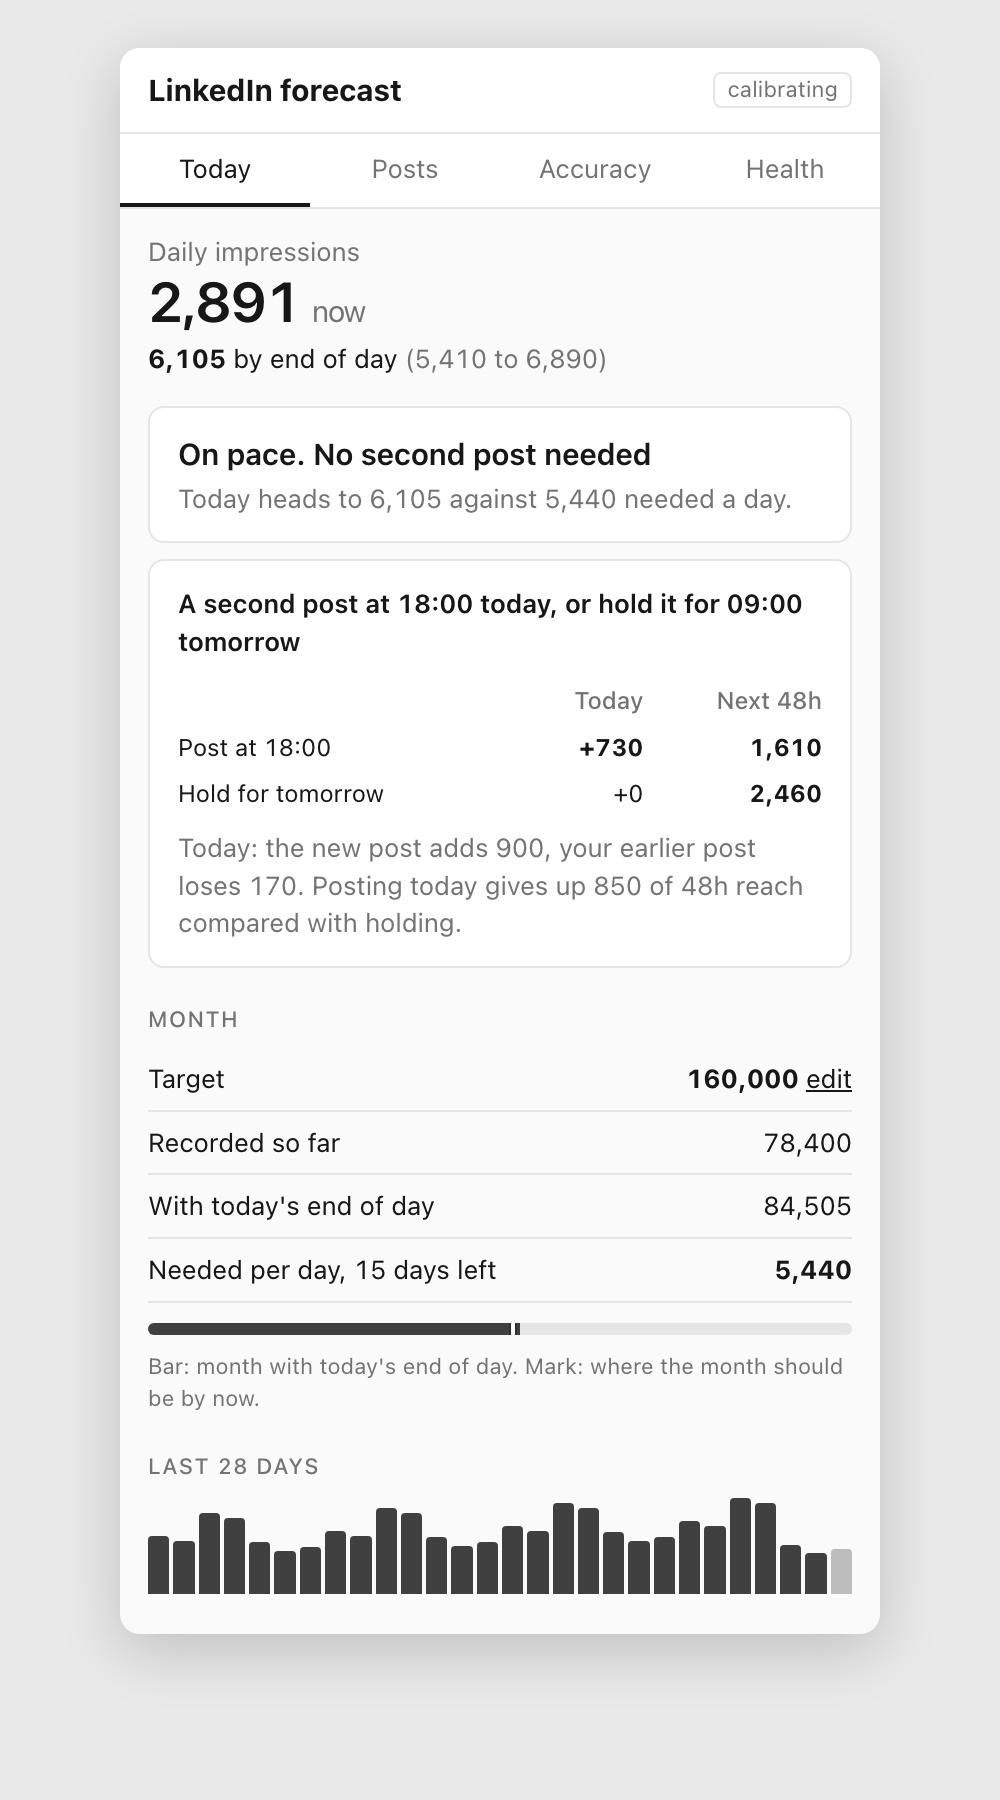
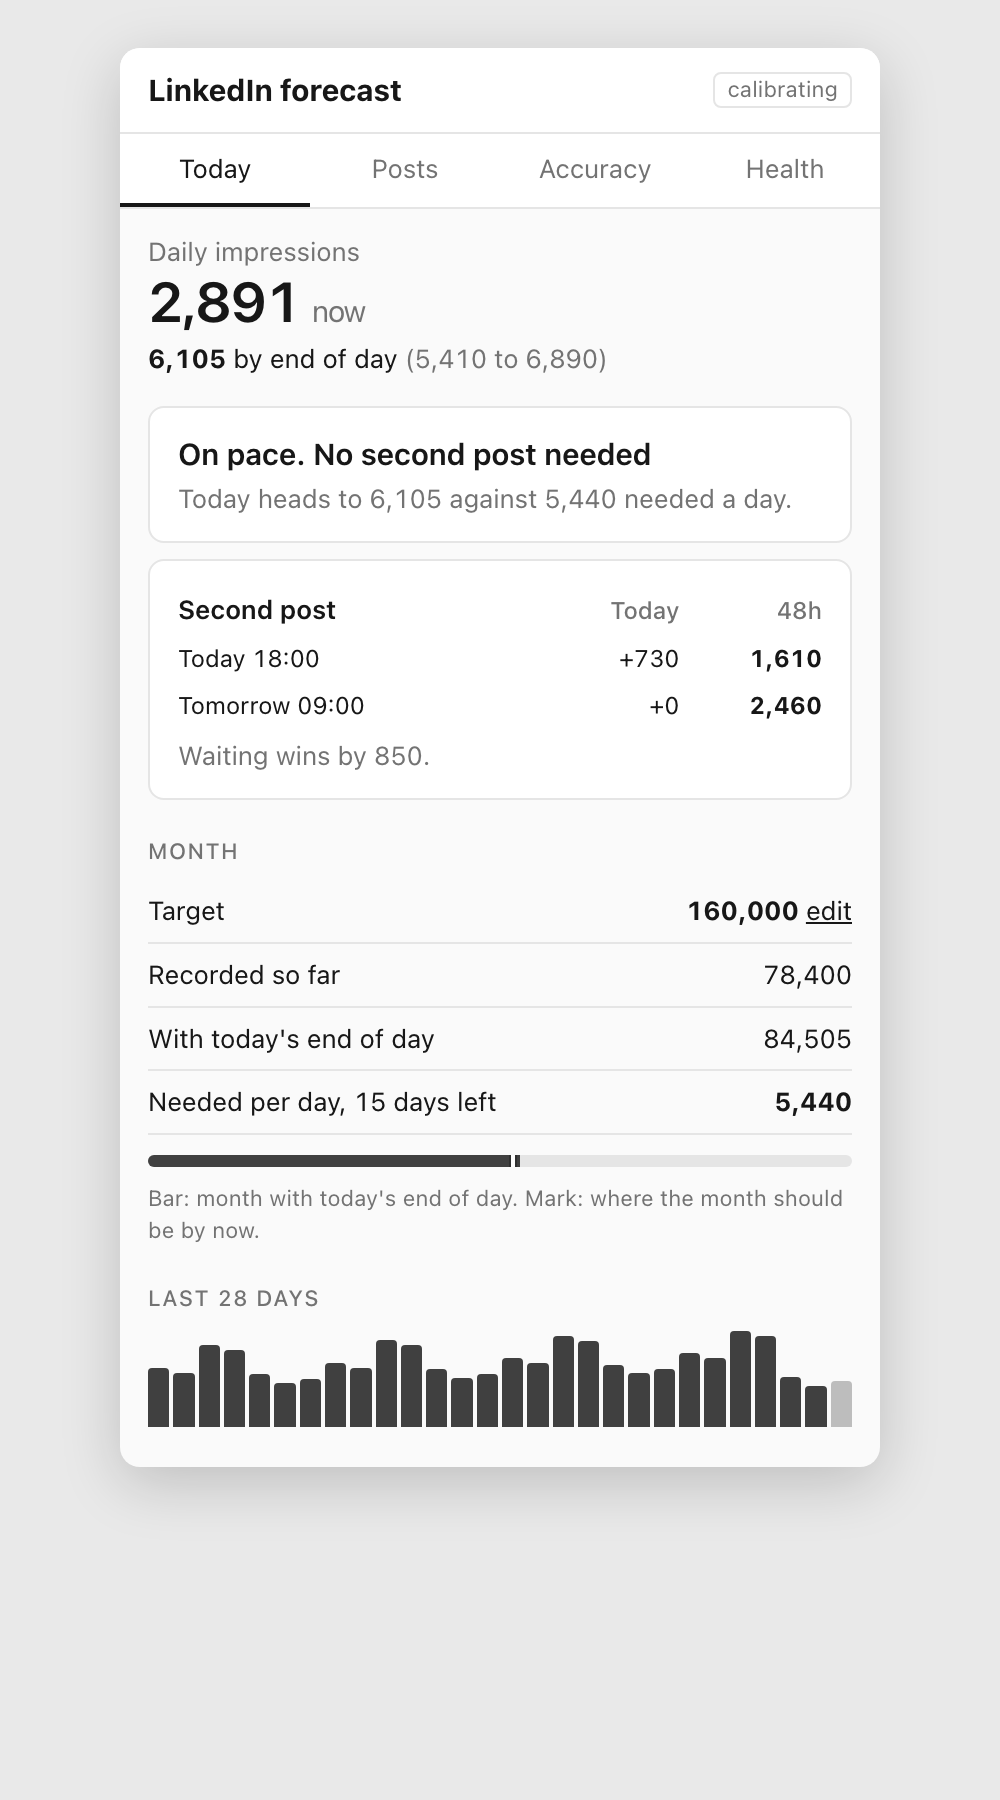
Second-post card: table plus one line

Changed region(s): [[0.124, 0.3111, 0.899, 0.9333], [0.62, 0.6533, 0.651, 0.6844], [0.527, 0.6533, 0.558, 0.6844]]

diff --git a/src/ui/popup/main.tsx b/src/ui/popup/main.tsx
@@ -83,21 +83,15 @@ function Today({ s, reload }: { s: State; reload: () => void }) {
       </div>
 
       {g.scenario && (
-        <div class="decision" title="Assumes one post in hand, a typical post for this account, and that it would be tomorrow's only post if held.">
-          <div class="decision-head" style="font-size:13px">{g.scenario.second ? 'A second post' : 'A post'} at {g.scenario.slotLocal} today, or hold it for {g.scenario.tomorrowLocal} tomorrow</div>
+        <div class="decision" title={`${g.scenario.second ? `New post adds ${fmt(g.scenario.addToday)} today, earlier post loses ${fmt(g.scenario.lossToday)}. ` : ''}Assumes a typical post, and that a held post is tomorrow's only post.`}>
           <table class="scn">
-            <thead><tr><th></th><th class="n">Today</th><th class="n">Next 48h</th></tr></thead>
+            <thead><tr><th>{g.scenario.second ? 'Second post' : 'Next post'}</th><th class="n">Today</th><th class="n">48h</th></tr></thead>
             <tbody>
-              <tr><td>Post at {g.scenario.slotLocal}</td><td class="n"><b>+{fmt(g.scenario.netToday)}</b></td><td class="n"><b>{fmt(g.scenario.reach48Today)}</b></td></tr>
-              <tr><td>Hold for tomorrow</td><td class="n">+0</td><td class="n"><b>{fmt(g.scenario.reach48Tomorrow)}</b></td></tr>
+              <tr><td>Today {g.scenario.slotLocal}</td><td class="n">+{fmt(g.scenario.netToday)}</td><td class="n"><b>{fmt(g.scenario.reach48Today)}</b></td></tr>
+              <tr><td>Tomorrow {g.scenario.tomorrowLocal}</td><td class="n">+0</td><td class="n"><b>{fmt(g.scenario.reach48Tomorrow)}</b></td></tr>
             </tbody>
           </table>
-          <div class="dim" style="margin-top:6px">
-            {g.scenario.second && g.scenario.lossToday > 0 ? `Today: the new post adds ${fmt(g.scenario.addToday)}, your earlier post loses ${fmt(g.scenario.lossToday)}. ` : ''}
-            {g.scenario.sacrifice > 0
-              ? `Posting today gives up ${fmt(g.scenario.sacrifice)} of 48h reach compared with holding.`
-              : `Holding gives up ${fmt(-g.scenario.sacrifice)} of 48h reach compared with posting today.`}
-          </div>
+          <div class="dim" style="margin-top:4px">{g.scenario.sacrifice > 0 ? `Waiting wins by ${fmt(g.scenario.sacrifice)}.` : `Posting today wins by ${fmt(-g.scenario.sacrifice)}.`}</div>
         </div>
       )}
 

diff --git a/src/ui/styles.css b/src/ui/styles.css
@@ -55,6 +55,7 @@ pre { font-size:11px; background:#f0f0f0; padding:8px; border-radius:6px; overfl
 .spark-svg { flex:none; }
 .tag.good { color:#166534; border-color:#bbe5c8; }
 
-.scn { margin-top:8px; }
+.scn { margin-top:0; }
+.scn th:first-child { color:var(--fg); font-weight:600; font-size:13px; }
 .scn td, .scn th { border-bottom:0; padding:3px 0; }
 .decision + .decision { margin-top:8px; }
